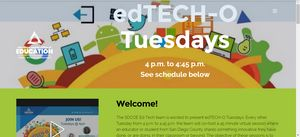
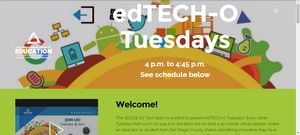
Debbie video update

diff --git a/index.html b/index.html
@@ -44,7 +44,7 @@
 <!-- /Analytics -->
 
 
-  <section id="ext_menu-3" data-rv-view="0">
+  <section id="ext_menu-3" data-rv-view="62">
 
     <nav class="navbar navbar-dropdown transparent navbar-fixed-top bg-color">
         <div class="container">
@@ -70,7 +70,7 @@
 
 </section>
 
-<section class="engine"><a href="https://mobirise.info/u">bootstrap website templates</a></section><section class="mbr-section mbr-after-navbar" id="msg-box5-26" data-rv-view="2" style="background-image: url(assets/images/taco2-1-812x607.jpeg); padding-top: 0px; padding-bottom: 0px;">
+<section class="engine"><a href="https://mobirise.info/b">how to create a site for free</a></section><section class="mbr-section mbr-after-navbar" id="msg-box5-26" data-rv-view="64" style="background-image: url(assets/images/taco2-1-812x607.jpeg); padding-top: 0px; padding-bottom: 0px;">
 
     <div class="mbr-overlay" style="opacity: 0.2; background-color: rgb(0, 0, 0);">
     </div>
@@ -105,7 +105,7 @@
 
 </section>
 
-<section class="mbr-section" id="msg-box4-2j" data-rv-view="5" style="background-color: rgb(162, 198, 57); padding-top: 40px; padding-bottom: 40px;">
+<section class="mbr-section" id="msg-box4-2j" data-rv-view="67" style="background-color: rgb(162, 198, 57); padding-top: 40px; padding-bottom: 40px;">
 
     
     <div class="container">
@@ -139,7 +139,7 @@
 
 </section>
 
-<section class="mbr-section mbr-section__container article" id="header3-2p" data-rv-view="8" style="background-color: rgb(242, 194, 48); padding-top: 20px; padding-bottom: 20px;">
+<section class="mbr-section mbr-section__container article" id="header3-2p" data-rv-view="70" style="background-color: rgb(242, 194, 48); padding-top: 20px; padding-bottom: 20px;">
     <div class="container">
         <div class="row">
             <div class="col-xs-12">
@@ -150,7 +150,7 @@
     </div>
 </section>
 
-<section class="mbr-section mbr-parallax-background" id="msg-box4-2q" data-rv-view="13" style="background-image: url(assets/images/cte-icons-799x562.jpeg); padding-top: 0px; padding-bottom: 40px;">
+<section class="mbr-section mbr-parallax-background" id="msg-box4-2q" data-rv-view="72" style="background-image: url(assets/images/cte-icons-799x562.jpeg); padding-top: 0px; padding-bottom: 40px;">
 
     <div class="mbr-overlay" style="opacity: 0.6; background-color: rgb(136, 202, 186);">
     </div>
@@ -159,7 +159,7 @@
             <div class="mbr-table-md-up">
 
               <div class="mbr-table-cell mbr-right-padding-md-up mbr-valign-top col-md-7 image-size" style="width: 48%;">
-                  <div class="mbr-figure"><a href="https://sdcoe.zoom.us/j/381834998" target="_blank"><img src="assets/images/debbievanbeck-932x526.png" alt="Placeholder image" title="K3 Classroom Jobs placeholder image"></a></div>
+                  <div class="mbr-figure"><iframe class="mbr-embedded-video" src="https://www.youtube.com/embed/_SR-CFUYrjA?rel=0&amp;amp;showinfo=0&amp;autoplay=0&amp;loop=0" width="1280" height="720" frameborder="0" allowfullscreen></iframe></div>
               </div>
 
               
@@ -185,7 +185,7 @@
 
 </section>
 
-<section class="mbr-section mbr-parallax-background" id="msg-box4-2o" data-rv-view="10" style="background-image: url(assets/images/mbr-1920x1242.jpg); padding-top: 40px; padding-bottom: 40px;">
+<section class="mbr-section mbr-parallax-background" id="msg-box4-2o" data-rv-view="75" style="background-image: url(assets/images/mbr-1920x1242.jpg); padding-top: 40px; padding-bottom: 40px;">
 
     <div class="mbr-overlay" style="opacity: 0.7; background-color: rgb(244, 132, 131);">
     </div>
@@ -211,7 +211,7 @@
 
 
               <div class="mbr-table-cell mbr-left-padding-md-up mbr-valign-top col-md-7 image-size" style="width: 63%;">
-                  <div class="mbr-figure"><iframe class="mbr-embedded-video" src="https://www.youtube.com/embed/EY2WwBjYoZk?rel=0&amp;amp;showinfo=0&amp;autoplay=1&amp;loop=0" width="1280" height="720" frameborder="0" allowfullscreen></iframe></div>
+                  <div class="mbr-figure"><iframe class="mbr-embedded-video" src="https://www.youtube.com/embed/EY2WwBjYoZk?rel=0&amp;amp;showinfo=0&amp;autoplay=0&amp;loop=0" width="1280" height="720" frameborder="0" allowfullscreen></iframe></div>
               </div>
 
             </div>
@@ -220,7 +220,7 @@
 
 </section>
 
-<section class="mbr-section mbr-section__container article" id="header3-2n" data-rv-view="16" style="background-color: rgb(5, 91, 166); padding-top: 20px; padding-bottom: 20px;">
+<section class="mbr-section mbr-section__container article" id="header3-2n" data-rv-view="78" style="background-color: rgb(5, 91, 166); padding-top: 20px; padding-bottom: 20px;">
     <div class="container">
         <div class="row">
             <div class="col-xs-12">
@@ -231,7 +231,7 @@
     </div>
 </section>
 
-<section class="mbr-cards mbr-section mbr-section-nopadding" id="features1-2k" data-rv-view="18" style="background-color: rgb(242, 194, 48);">
+<section class="mbr-cards mbr-section mbr-section-nopadding" id="features1-2k" data-rv-view="80" style="background-color: rgb(242, 194, 48);">
 
         
 
@@ -294,7 +294,7 @@
     </div>
 </section>
 
-<section class="mbr-gallery mbr-section mbr-section-nopadding mbr-slider-carousel" data-filter="false" id="gallery3-2k" data-rv-view="21" style="background-color: rgb(242, 155, 48); padding-top: 1.5rem; padding-bottom: 1.5rem;">
+<section class="mbr-gallery mbr-section mbr-section-nopadding mbr-slider-carousel" data-filter="false" id="gallery3-2k" data-rv-view="83" style="background-color: rgb(242, 155, 48); padding-top: 1.5rem; padding-bottom: 1.5rem;">
     <!-- Filter -->
     
 
@@ -436,7 +436,7 @@
     </div>
 </section>
 
-<section class="mbr-section article mbr-section__container" id="content2-2g" data-rv-view="56" style="background-color: rgb(162, 198, 56); padding-top: 20px; padding-bottom: 20px;">
+<section class="mbr-section article mbr-section__container" id="content2-2g" data-rv-view="118" style="background-color: rgb(162, 198, 56); padding-top: 20px; padding-bottom: 20px;">
 
     <div class="container">
         <div class="row">
@@ -446,7 +446,7 @@
 
 </section>
 
-<section class="mbr-section mbr-section-md-padding" id="social-buttons4-2m" data-rv-view="60" style="background-color: rgb(255, 210, 50); padding-top: 30px; padding-bottom: 30px;">
+<section class="mbr-section mbr-section-md-padding" id="social-buttons4-2m" data-rv-view="122" style="background-color: rgb(255, 210, 50); padding-top: 30px; padding-bottom: 30px;">
     
     <div class="container">
         <div class="row">
@@ -458,7 +458,7 @@
     </div>
 </section>
 
-<footer class="mbr-small-footer mbr-section mbr-section-nopadding" id="footer1-o" data-rv-view="58" style="background-color: rgb(153, 180, 194); padding-top: 1.75rem; padding-bottom: 1.75rem;">
+<footer class="mbr-small-footer mbr-section mbr-section-nopadding" id="footer1-o" data-rv-view="120" style="background-color: rgb(153, 180, 194); padding-top: 1.75rem; padding-bottom: 1.75rem;">
     
     <div class="container text-xs-center">
         <p>The San Diego County Office of Education is committed to ensuring equal, fair, and meaningful access to employment and education services. SDCOE does not discriminate in its employment practices or educational programs and activities on the basis of race, color, national or ethnic origin, ancestry, age, religion or religious creed, marital status, pregnancy or parental status, physical or mental disability or handicap, sex or gender, gender/transgender identity and expression, sexual orientation, military or veteran status, political affiliation, genetic information, a perception of one or more of such characteristics, association with a person of group with one or more of these actual or perceived characteristics, or any other characteristic protected under applicable federal, state or local law as applicable to educational services and/or employment. More detailed SDCOE policies and regulations can be found at <a href="http://www.sdcoe.net/nondiscrimination" target="_blank">www.sdcoe.net/nondiscrimination.</a><br><br>Webmaster: michanne.hoctorthompson@sdcoe.net</p>
@@ -482,7 +482,7 @@
   <script src="assets/mobirise-gallery/script.js"></script>
   
   
-  <input name="animation" type="hidden">
-   <div id="scrollToTop" class="scrollToTop mbr-arrow-up"><a style="text-align: center;"><i class="mbr-arrow-up-icon mbr-arrow-up-icon-cm cm-icon cm-icon-smallarrow-up"></i></a></div>
+ <div id="scrollToTop" class="scrollToTop mbr-arrow-up"><a style="text-align: center;"><i class="mbr-arrow-up-icon mbr-arrow-up-icon-cm cm-icon cm-icon-smallarrow-up"></i></a></div>
+    <input name="animation" type="hidden">
   </body>
 </html>

diff --git a/page1.html b/page1.html
@@ -41,7 +41,7 @@
 <!-- /Analytics -->
 
 
-  <section id="ext_menu-2r" data-rv-view="86">
+  <section id="ext_menu-2r" data-rv-view="148">
 
     <nav class="navbar navbar-dropdown transparent navbar-fixed-top bg-color">
         <div class="container">
@@ -67,7 +67,7 @@
 
 </section>
 
-<section class="engine"><a href="https://mobirise.info/w">free html5 templates</a></section><footer class="mbr-small-footer mbr-section mbr-section-nopadding mbr-after-navbar" id="footer1-2s" data-rv-view="88" style="background-color: rgb(153, 180, 194); padding-top: 1.75rem; padding-bottom: 1.75rem;">
+<section class="engine"><a href="https://mobirise.info/l">free site templates</a></section><footer class="mbr-small-footer mbr-section mbr-section-nopadding mbr-after-navbar" id="footer1-2s" data-rv-view="150" style="background-color: rgb(153, 180, 194); padding-top: 1.75rem; padding-bottom: 1.75rem;">
     
     <div class="container text-xs-center">
         <p>The San Diego County Office of Education is committed to ensuring equal, fair, and meaningful access to employment and education services. SDCOE does not discriminate in its employment practices or educational programs and activities on the basis of race, color, national or ethnic origin, ancestry, age, religion or religious creed, marital status, pregnancy or parental status, physical or mental disability or handicap, sex or gender, gender/transgender identity and expression, sexual orientation, military or veteran status, political affiliation, genetic information, a perception of one or more of such characteristics, association with a person of group with one or more of these actual or perceived characteristics, or any other characteristic protected under applicable federal, state or local law as applicable to educational services and/or employment. More detailed SDCOE policies and regulations can be found at <a href="http://www.sdcoe.net/nondiscrimination" target="_blank">www.sdcoe.net/nondiscrimination.</a><br><br>Webmaster: michanne.hoctorthompson@sdcoe.net</p>
@@ -85,7 +85,7 @@
   <script src="assets/theme/js/script.js"></script>
   
   
-  <input name="animation" type="hidden">
-   <div id="scrollToTop" class="scrollToTop mbr-arrow-up"><a style="text-align: center;"><i class="mbr-arrow-up-icon mbr-arrow-up-icon-cm cm-icon cm-icon-smallarrow-up"></i></a></div>
+ <div id="scrollToTop" class="scrollToTop mbr-arrow-up"><a style="text-align: center;"><i class="mbr-arrow-up-icon mbr-arrow-up-icon-cm cm-icon cm-icon-smallarrow-up"></i></a></div>
+    <input name="animation" type="hidden">
   </body>
 </html>
